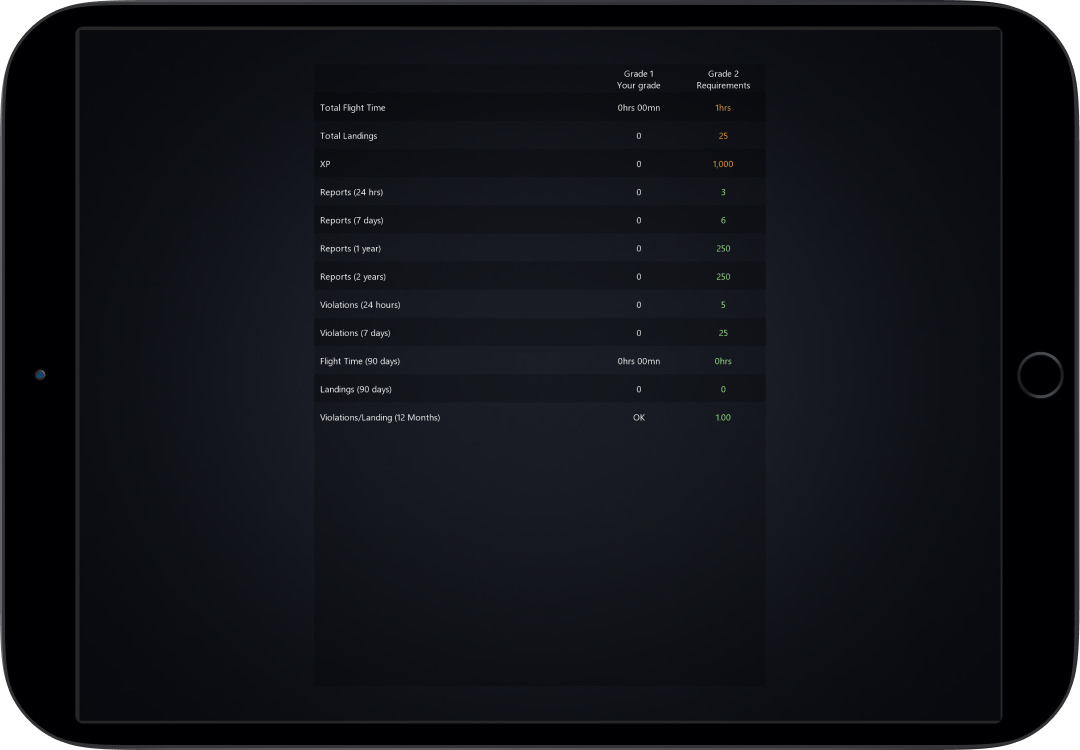
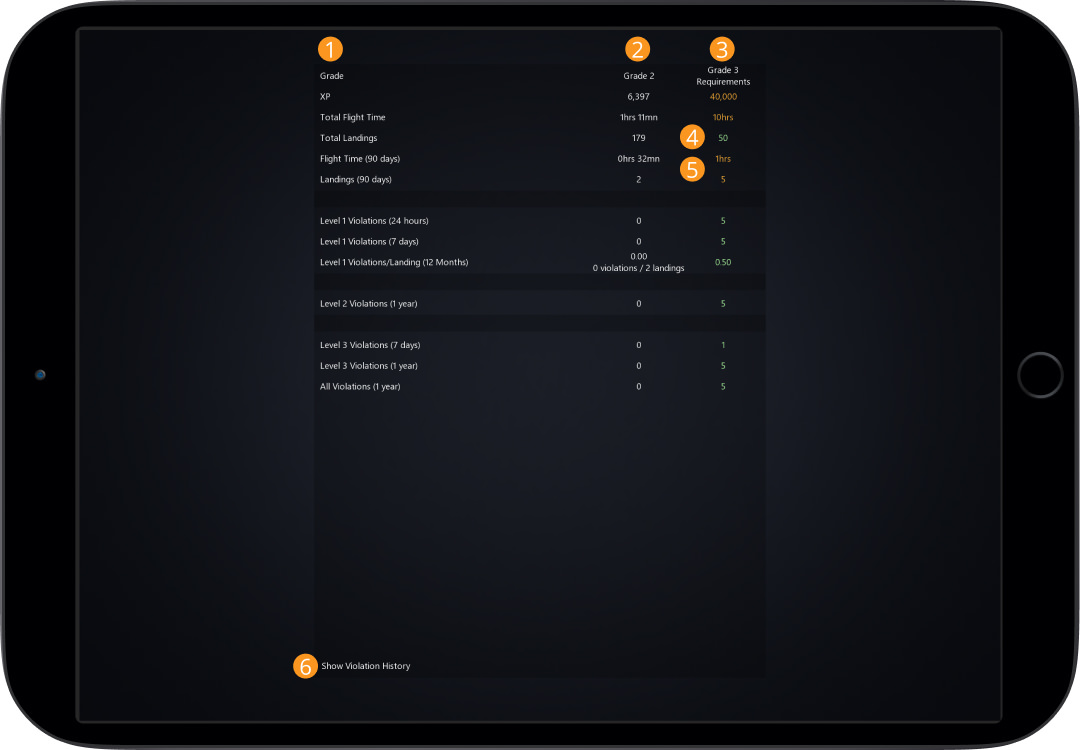
Add settings, user guide and tower airspace images

diff --git a/getting-started/home-user-interface/settings.md b/getting-started/home-user-interface/settings.md
@@ -10,23 +10,7 @@ order: 8
 The Settings menu allows you to customize your Infinite Flight experience before and during play. Below is a guide to help you navigate your way around and to find the best settings for you!
 
 
-
-*Insert ‘general settings screenshot' numbered 1 - 6
-
-
-
-1-Category on the left of the screen, maybe 'General'
-
-2-Next to one of the settings such as Auto-Coordination
-
-3-Next to a box that has been ticked
-
-4-Next to kilograms/pounds to show a label instead of a box
-
-5-Back
-
-6-About
-
+![Settings Page](_images/manual/frames/settings-main.jpg)
 
 
 1. On the left hand side of the screen are 5 categories that split the settings up, tap each one to find settings within
@@ -89,7 +73,7 @@ Tip
 
  
 
-*Insert ‘live settings screenshot'*
+![Live Settings Page](_images/manual/frames/settings-live.jpg)
 
 
 
@@ -118,7 +102,7 @@ There are two sliders that adjust the SFX and ATC Volume. Slide your finger alon
 
 
 
-*Insert ‘audio settings screenshot'*
+![Audio Settings Page](_images/manual/frames/settings-audio.jpg)
 
 
 
@@ -137,7 +121,7 @@ ATC Volume (Air Traffic Control Volume)
 Tip
 
 : For both of these settings, try to find a happy medium where you can enjoy the sounds of the aircraft whilst being able to hear Controllers and not miss a radio call. In addition, you will also be able to use your device volume to adjust the overall volume
-
+ 
 
 
 ## Graphics
@@ -146,7 +130,7 @@ Infinite Flight supports both iOS and Android device; because of this, the graph
 
 
 
-*Insert ‘graphics settings screenshot'*
+![Graphics Settings Page](_images/manual/frames/settings-graphics.jpg)
 
 
 
@@ -191,17 +175,7 @@ Throttle
 : Throttle is your power levers that you will use to adjust the amount of thrust provided by the engines
 
 
-
-*Insert ‘controls settings screenshot'* labelled 1 - 3
-
-
-
-1 - Places between the Axes and Commands headers
-
-2- Sensitivity
-
-3 - Restore Defaults/Show Devices/Setup Tutorial
-
+![Control Settings Page](_images/manual/frames/settings-controls.jpg)
 
 
 Tip

diff --git a/atc-manual/3.-tower/3.3-pattern-work-transitions-flight-of-xx.md b/atc-manual/3.-tower/3.3-pattern-work-transitions-flight-of-xx.md
@@ -33,6 +33,7 @@ The pattern altitude is 1000ft AAL (above aerodrome level) for props and 1500ft 
 
 Aircraft **must**{.red} request a transition if passing through the airspace of the Tower Controller unless the aircraft is with the radar facility of that airport. For Infinite Flight, Tower airspace is defined as the most immediate ring/boundary surrounding the airport and up to 5000ft AAL (therefore if the elevation of the airport is 1000ft, the tower’s airspace would be 1000ft – 6000ft).
 
+![Image 3.3.2.1 - Tower Airspace for KDFW](_images/manual/frames/atc-tower-airspace.jpg)
 
 
 ### 3.3.3    

diff --git a/getting-started/home-user-interface/user-profile.md b/getting-started/home-user-interface/user-profile.md
@@ -76,18 +76,6 @@ The Grade Table is broken up into 4 sections, these are:
 
 
 
-Replace Image with 'grade table screenshot', see issue for details. Image labelled 1 - 4
-
-1 - The first column (on the left)
-
-2 - The second column (middle)
-
-3 - The third column (on the right)
-
-4 - Show Violation History
-
-
-
 1. The first column lists the parameters that determine you grade, these are listed in the table below
 
    
